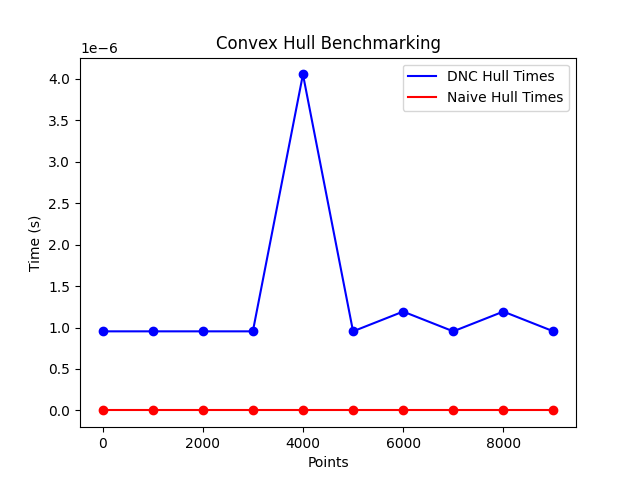
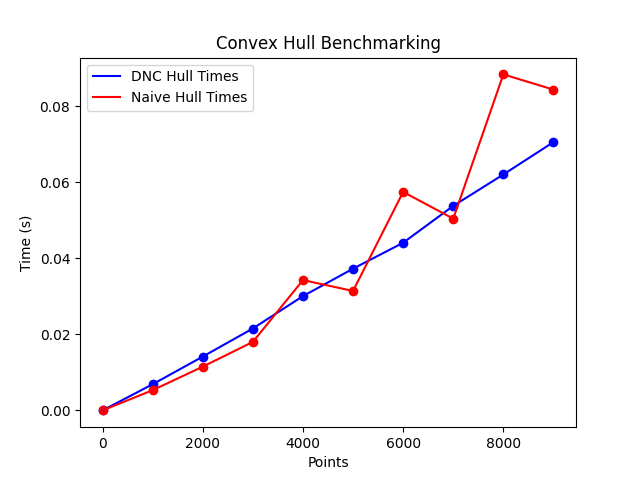
Worked on Benchmark

diff --git a/src/benchmarks.py b/src/benchmarks.py
@@ -44,14 +44,14 @@ def run_benchmarks():
 
         points = generate_points(n)
         start_time = time.time()
-        # TODO: call compute_hull here
+        compute_hull(points)
         time_taken = time.time() - start_time  # time taken (in seconds) for divide-and-conquer
 
         print(f'dnc_time_taken: {time_taken:.3f},', end=' ')
         dnc_hull_times.append(time_taken)
 
         start_time = time.time()
-        # TODO: call base_case_hull here
+        base_case_hull(points)
         time_taken = time.time() - start_time  # time taken (in seconds) for naive
 
         print(f'naive_time_taken: {time_taken:.3f}')

diff --git a/src/convex_hull.py b/src/convex_hull.py
@@ -152,6 +152,7 @@ def merge_hulls(L: List[Point], R: List[Point]) -> List[Point]:
 
     # Find the upper tangent.
     while True:
+        # Invariants
         right_progress = False
         left_progress = False
         
@@ -183,6 +184,7 @@ def merge_hulls(L: List[Point], R: List[Point]) -> List[Point]:
 
     # Find the lower tangent.
     while True:
+        # Invariants
         right_progress = False
         left_progress = False
         
